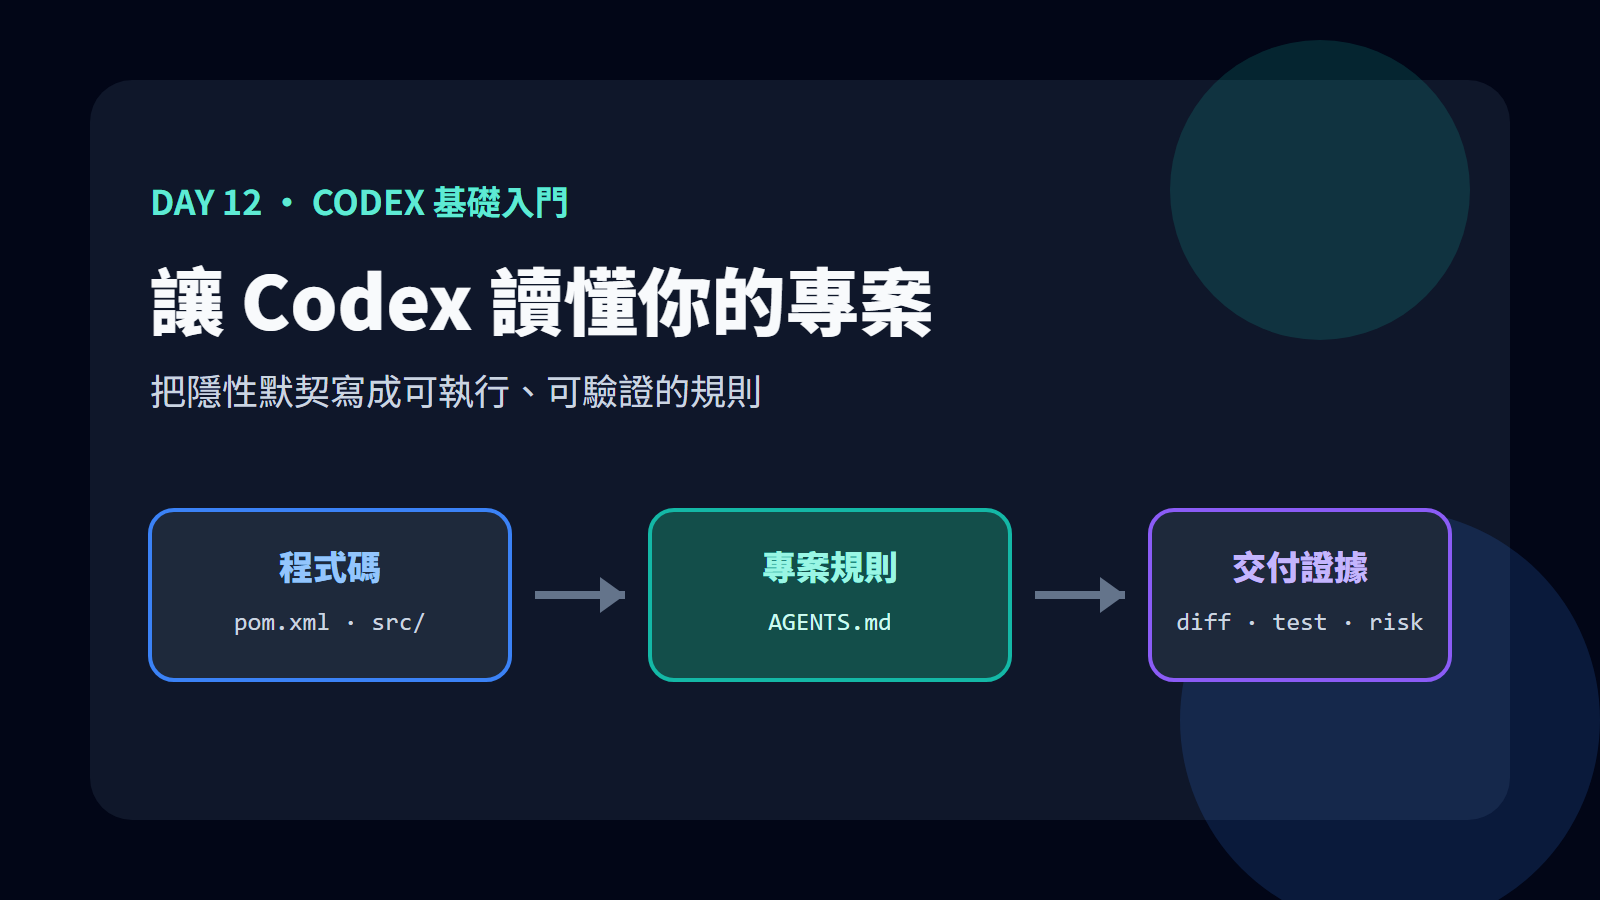
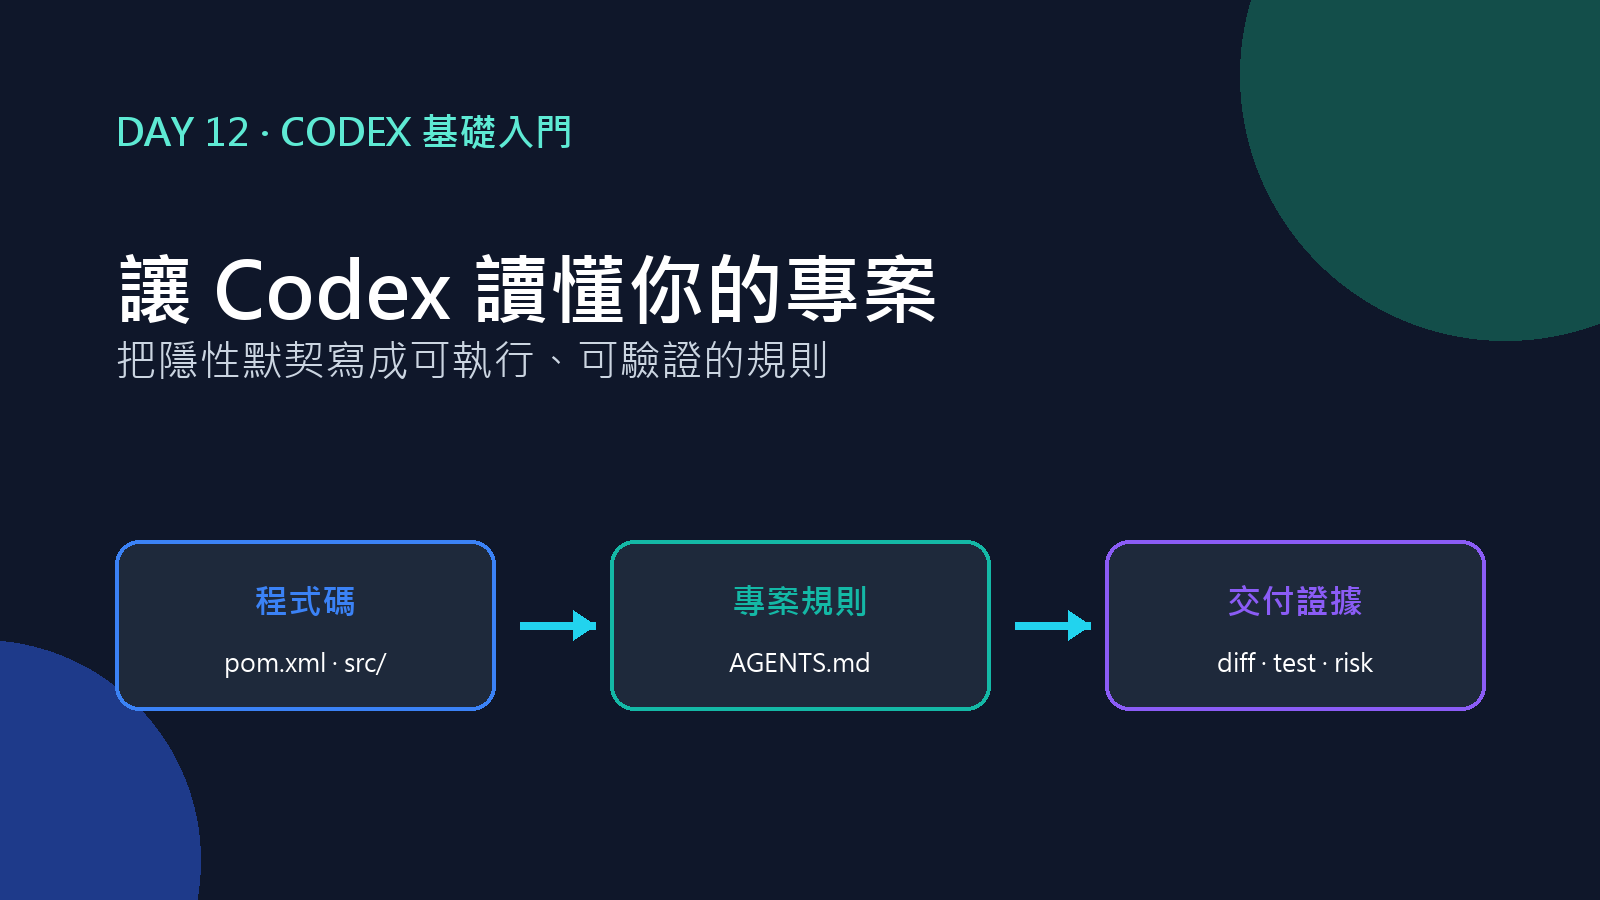
Day12 image

diff --git a/圖檔/Day12/generate_day12_cover.py b/圖檔/Day12/generate_day12_cover.py
@@ -1,0 +1,88 @@
+from pathlib import Path
+
+from PIL import Image, ImageDraw, ImageFont
+
+
+WIDTH, HEIGHT = 1600, 900
+ROOT = Path(__file__).parent
+FONT_REGULAR = Path(r"C:\Windows\Fonts\msjh.ttc")
+FONT_BOLD = Path(r"C:\Windows\Fonts\msjhbd.ttc")
+
+NAVY = "#0F172A"
+WHITE = "#FFFFFF"
+TEAL = "#14B8A6"
+CYAN = "#22D3EE"
+BLUE = "#3B82F6"
+PURPLE = "#8B5CF6"
+
+
+def font(size: int, bold: bool = False) -> ImageFont.FreeTypeFont:
+    return ImageFont.truetype(str(FONT_BOLD if bold else FONT_REGULAR), size)
+
+
+def rounded(draw, box, fill, radius=24, outline=None, width=1):
+    draw.rounded_rectangle(
+        box,
+        radius=radius,
+        fill=fill,
+        outline=outline,
+        width=width,
+    )
+
+
+def label(draw, xy, value, size, fill, bold=False, anchor=None):
+    draw.text(
+        xy,
+        value,
+        font=font(size, bold),
+        fill=fill,
+        anchor=anchor,
+    )
+
+
+def arrow(draw, start, end, color=CYAN, width=8):
+    draw.line([start, end], fill=color, width=width)
+    end_x, end_y = end
+    draw.polygon(
+        [
+            (end_x, end_y),
+            (end_x - 22, end_y - 15),
+            (end_x - 22, end_y + 15),
+        ],
+        fill=color,
+    )
+
+
+def cover():
+    image = Image.new("RGB", (WIDTH, HEIGHT), NAVY)
+    draw = ImageDraw.Draw(image)
+    draw.ellipse((1240, -190, 1770, 340), fill="#134E4A")
+    draw.ellipse((-240, 640, 200, 1080), fill="#1E3A8A")
+
+    label(draw, (115, 105), "DAY 12 · CODEX 基礎入門", 38, "#5EEAD4", True)
+    label(draw, (115, 235), "讓 Codex 讀懂你的專案", 78, WHITE, True)
+    label(
+        draw,
+        (115, 330),
+        "把隱性默契寫成可執行、可驗證的規則",
+        42,
+        "#CBD5E1",
+    )
+
+    cards = [
+        (115, "程式碼", "pom.xml · src/", BLUE),
+        (610, "專案規則", "AGENTS.md", TEAL),
+        (1105, "交付證據", "diff · test · risk", PURPLE),
+    ]
+    for x, title, note, color in cards:
+        rounded(draw, (x, 540, x + 380, 710), "#1E293B", 24, color, 4)
+        label(draw, (x + 190, 600), title, 34, color, True, "mm")
+        label(draw, (x + 190, 662), note, 25, WHITE, False, "mm")
+
+    arrow(draw, (520, 625), (595, 625))
+    arrow(draw, (1015, 625), (1090, 625))
+    image.save(ROOT / "day12-01-cover.png", format="PNG", optimize=True)
+
+
+if __name__ == "__main__":
+    cover()

diff --git a/審核/DAY12-verify.md b/審核/DAY12-verify.md
@@ -18,6 +18,13 @@
 - [x] 事實正確性：通過。已核對全域與專案指令層、載入時機、目前工作目錄條件、override 優先順序、Java 17、Maven 與 Day 10 專案內容。
 - [x] 讀者清晰度與規範：通過。標題層次、全形中文標點、第一人稱語氣、名詞首次說明、字數與圖片規格均符合要求。
 
+### 2026-08-22 封面一致性複審
+
+- [x] 著作權合規：通過。新封面只使用專案內原創文字、幾何圖形與色彩，沒有外部圖片、Logo、嵌入字型或第三方素材。
+- [x] 事實正確性：通過。DAY 12、主副標題、`pom.xml`、`src/`、`AGENTS.md`、`diff`、`test` 與 `risk` 均與正文及案例一致。
+- [x] 讀者清晰度與規範：通過。封面改為與 Day 13～16 一致的滿版深色背景、右上與左下裁切圓、左上標題及下方流程卡；PNG 為 1600×900，文字清楚且無截切。
+- [x] 可重現性：`day12-01-cover.svg` 與 `generate_day12_cover.py` 使用相同結構與色盤；產圖腳本重跑後雜湊值不變。
+
 ## 發布當日仍需由作者確認
 
 - [ ] 發布前重新開啟 [OpenAI 官方 AGENTS.md 文件](https://learn.chatgpt.com/docs/agent-configuration/agents-md)，確認載入順序與介面名稱沒有更新。
